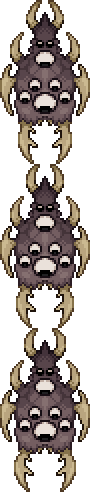
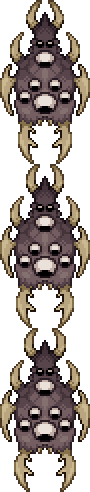
guardian corruptor adjustment again

diff --git a/NPCs/Enemies/SuperHardMode/GuardianCorruptor.cs b/NPCs/Enemies/SuperHardMode/GuardianCorruptor.cs
@@ -17,7 +17,7 @@ namespace tsorcRevamp.NPCs.Enemies.SuperHardMode
         public override void SetDefaults()
         {
             NPC.width = 90;
-            NPC.height = 154;
+            NPC.height = 164;
             NPC.damage = 83;
             NPC.defense = 50;
             NPC.lifeMax = 9000;
